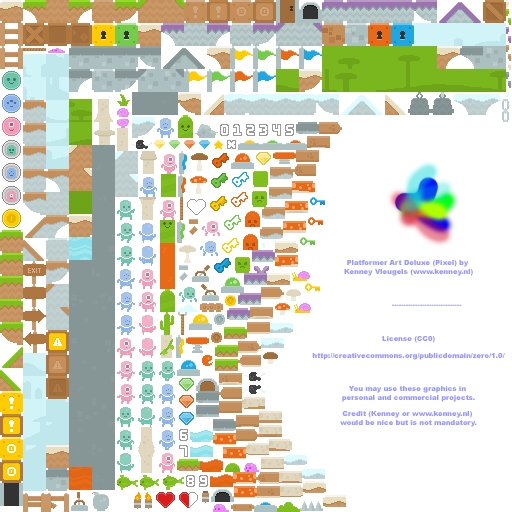
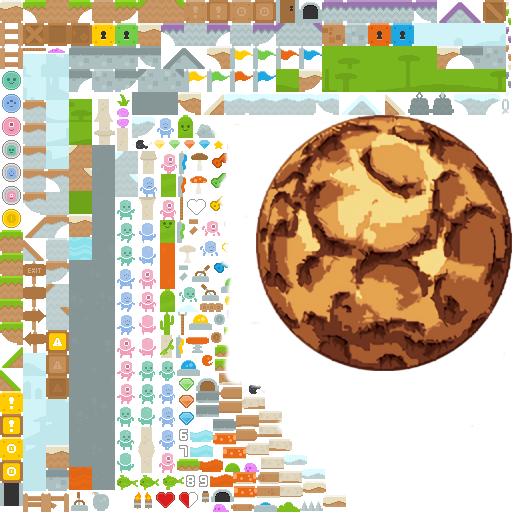
Worked on boulder: fixed sprite, changed spawn point, now rotates.

Changed region(s): [[0.4062, 0.2188, 1.0, 0.8438], [0.9688, 0.2188, 1.0, 0.25], [0.5312, 0.8125, 0.5625, 0.8438]]

diff --git a/ChaseAndImpactGame.cpp b/ChaseAndImpactGame.cpp
@@ -54,26 +54,27 @@ ChaseAndImpactGame::ChaseAndImpactGame()
 
 void ChaseAndImpactGame::initLevel() {
 	initPhysics();
-	initPlayerObject("Player 1", 19, glm::vec2{ 1.5,2.5 },
+	initPlayerObject("Player 1", 19, glm::vec2{ 200.5,2.5 },
 		SDL_Keycode(SDLK_UP), SDL_Keycode(SDLK_LEFT), SDL_Keycode(SDLK_RIGHT));
-	initPlayerObject("Player 2", 19, glm::vec2{ 1.5,2.5 },
+	initPlayerObject("Player 2", 19, glm::vec2{ 20.0,2.5 },
 		SDL_Keycode(SDLK_w), SDL_Keycode(SDLK_a), SDL_Keycode(SDLK_d));
-
-	auto boulderObj = createGameObject();
-	boulderObj->name = "Boulder";
-	auto boulderSpriteComponent = boulderObj->addComponent<SpriteComponent>();
-	auto boulder = spriteAtlas->get("334.png");
-	boulder.setFlip({ false, false });
-	boulderSpriteComponent->setSprite(boulder);
-	boulderMovement = boulderObj->addComponent<BoulderMovementComponent>().get();
-	boulderMovement->CanMove = false;
 
 	auto camObj = createGameObject();
 	camObj->name = "Camera";
 	camera = camObj->addComponent<SideScrollingCamera>();
 	camObj->setPosition(windowSize*0.5f);
-	camera->setFollowObject(boulderObj, { 200,windowSize.y*0.5f });
 	level->generateLevel();
+
+	auto boulderObj = createGameObject();
+	boulderObj->name = "Boulder";
+	auto boulderSpriteComponent = boulderObj->addComponent<SpriteComponent>();
+	auto boulder = spriteAtlas->get("boulder.png");
+	boulder.setFlip({ false, false });
+	boulderSpriteComponent->setSprite(boulder);
+	boulderMovement = boulderObj->addComponent<BoulderMovementComponent>().get();
+	boulderMovement->CanMove = true;
+
+	camera->setFollowObject(boulderObj, { 300,windowSize.y*0.5f });
 }
 
 /*
@@ -92,6 +93,7 @@ void ChaseAndImpactGame::initPlayerObject(std::string playerName, int spriteAtla
 	auto playerSprite = player->addComponent<SpriteComponent>();
 	auto playerSpriteObj = spriteAtlas->get(std::to_string(spriteAtlasStartIndex) + ".png");
 	playerSpriteObj.setPosition(startPosition*Level::tileSize);
+	player->position = startPosition*Level::tileSize; 
 	playerSprite->setSprite(playerSpriteObj);
 	auto characterController = player->addComponent<CharacterControllerComponent>();
 	auto particleSystem = player->addComponent<ParticleSystemComponent>();

diff --git a/BoulderMovementComponent.cpp b/BoulderMovementComponent.cpp
@@ -15,4 +15,5 @@ void BoulderMovementComponent::update(float deltaTime) {
 		time += deltaTime;
 		gameObject->setPosition(glm::vec2((speed*time + initialx)*Level::tileSize, initialy*Level::tileSize));
 	}
+	gameObject->setRotation(gameObject->getRotation() - (deltaTime* this->rotationSpeeed));
 }

diff --git a/BoulderMovementComponent.hpp b/BoulderMovementComponent.hpp
@@ -18,7 +18,8 @@ public:
 private:
     float time = 0;
 	float speed = 5.0f; 
-	float initialx = 1.5f;
-	float initialy = 3.5f;
+	float rotationSpeeed = 50.0f;
+	float initialx = 0.0f;
+	float initialy = 7.1f;
 };
 
